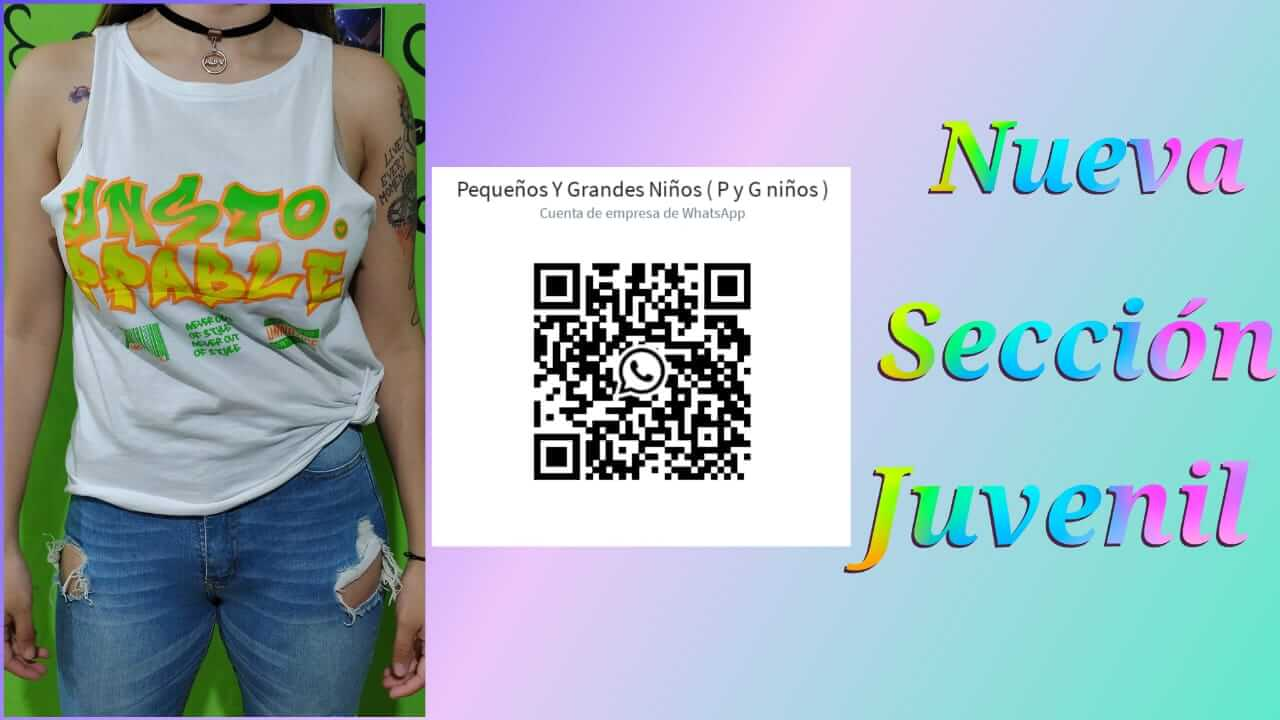
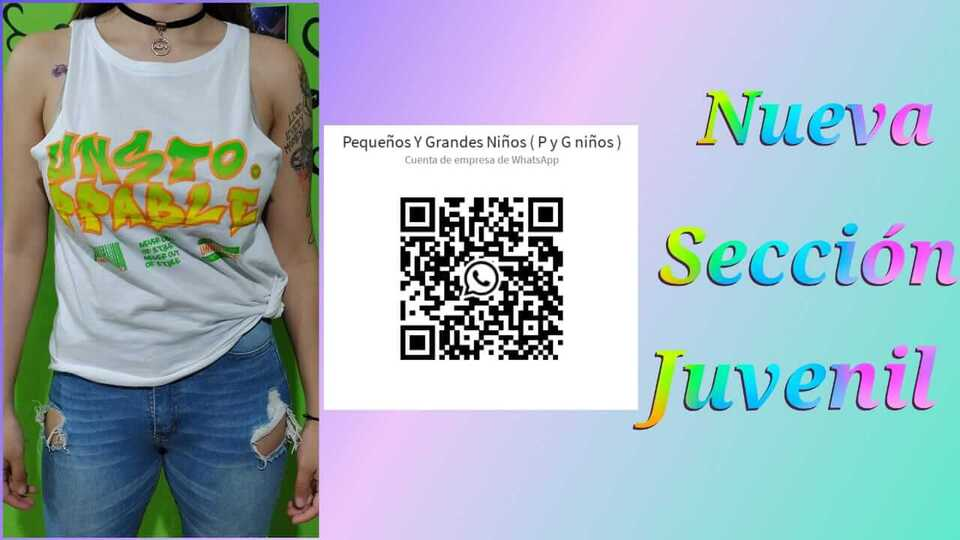
tamaño footer

diff --git a/index.html b/index.html
@@ -44,7 +44,7 @@
         </div>
     </header>
     <main>
-        <div class="Container-Index">
+        <div class="Contenedor">
             <div id="carouselExampleIndicators" class="carousel slide" data-ride="carousel">
                 <ol class="carousel-indicators">
                     <li data-target="#carouselExampleIndicators" data-slide-to="0" class="active"></li>
@@ -54,15 +54,15 @@
                 <div class="carousel-inner">
                     <div class="carousel-item active">
                         <a href="paginas/Juvenil.html"> <img class="d-block w-100" src="Media/SeccionJuvenil3.jpeg"
-                                alt="First slide" height="650px"></a>
+                                alt="First slide" height="450px"></a>
                     </div>
                     <div class="carousel-item">
                         <a href="paginas/Ninios.html"><img class="d-block w-100" src="Media/VeranoNene.jpeg"
-                                alt="Second slide" height="650px"></a>
+                                alt="Second slide" height="450px"></a>
                     </div>
                     <div class="carousel-item">
                         <a href="paginas/Ninias.html"><img class="d-block w-100" src="Media/VeranoNena.jpeg"
-                                alt="Third slide" height="650px"></a>
+                                alt="Third slide" height="450px"></a>
                     </div>
                 </div>
                 <a class="carousel-control-prev" href="#carouselExampleIndicators" role="button" data-slide="prev">

diff --git a/estilosCss/estilos.css b/estilosCss/estilos.css
@@ -175,7 +175,7 @@ button:focus {
   outline: 0;
 }
 
-.FOOTER {
+.Footer {
   width: 100%;
   text-align: center;
   color: rgba(221, 29, 29, 0.932);
@@ -186,25 +186,17 @@ button:focus {
           box-shadow: 0 0 20px 0 rgba(221, 29, 29, 0.3);
 }
 
-.FOOTER ul {
-  display: -webkit-box;
-  display: -ms-flexbox;
-  display: flex;
-  -webkit-box-pack: space-evenly;
-      -ms-flex-pack: space-evenly;
-          justify-content: space-evenly;
-  margin-top: 13px;
-  margin-bottom: 15px;
+.Footer p {
+  margin: 13px;
 }
 
-.FOOTER ul li {
-  display: -webkit-box;
-  display: -ms-flexbox;
-  display: flex;
-  -webkit-box-orient: horizontal;
-  -webkit-box-direction: normal;
-      -ms-flex-direction: row;
-          flex-direction: row;
+.Footer p i {
+  color: black;
+  font-size: 20px;
+  margin: 3px;
+  -webkit-box-pack: right;
+      -ms-flex-pack: right;
+          justify-content: right;
 }
 
 * {
@@ -386,7 +378,7 @@ body {
   background-position: center;
   background: url(../Media/fondo.jpg);
   position: relative;
-  margin-bottom: 4em;
+  margin-bottom: 9em;
   min-height: 100vh;
 }
 
@@ -417,7 +409,6 @@ header {
 a h1 {
   font-weight: bold;
   text-align: center;
-  font-size: 45px;
   color: rgba(221, 29, 29, 0.932);
 }
 
@@ -425,14 +416,12 @@ a h1 {
 h2 {
   font-weight: bold;
   text-align: center;
-  font-size: 45px;
   color: rgba(221, 29, 29, 0.932);
   padding: 40px;
 }
 
 h5 {
   font-weight: bold;
-  font-size: 20px;
   text-align: center;
   color: rgba(221, 29, 29, 0.932);
   padding-bottom: 5px;

diff --git a/estilosCss/_Footer.scss b/estilosCss/_Footer.scss
@@ -1,4 +1,5 @@
 .Footer{
+
     width:100%;
     text-align: center;
     color:rgba(221, 29, 29, 0.932) ;
@@ -6,15 +7,15 @@
     position: fixed;
     bottom: 0;
     box-shadow: 0 0 20px 0 rgba(221, 29, 29, .3);
+    p{
+       
+        margin: 3px;
+        i{
+            color: $color;
+            font-size: 20px;
+            margin: 3px;
+            justify-content: right;
+        }
+    }
    
 } 
-
-p{ 
-    margin-top: 13px;
-    margin-bottom: 15px;  
-    justify-content: space-evenly;         
-}
-
-i{
-    color: map-get($color, gris);
-}

diff --git a/estilosCss/estilos.scss b/estilosCss/estilos.scss
@@ -8,9 +8,7 @@
     text-align: center;
     color:rgba(221, 29, 29, 0.932); 
 }
-$color: 
-    "gris": rgb(192, 192, 192), 
-    "negro": #000;
+$color: rgb(124, 122, 122);
 
 *{
     text-decoration: none;
@@ -23,12 +21,11 @@ body{
     background-position: center;
     background: url(../Media/fondo.jpg);
     position: relative;
-    margin-bottom: 4em;
+    margin-bottom: 9em;
     min-height: 100vh;
 }
 .Contenedor{
-    padding-left:2em;
-    padding-top: 4em;
+    padding:2em;
 }
 
 header{
